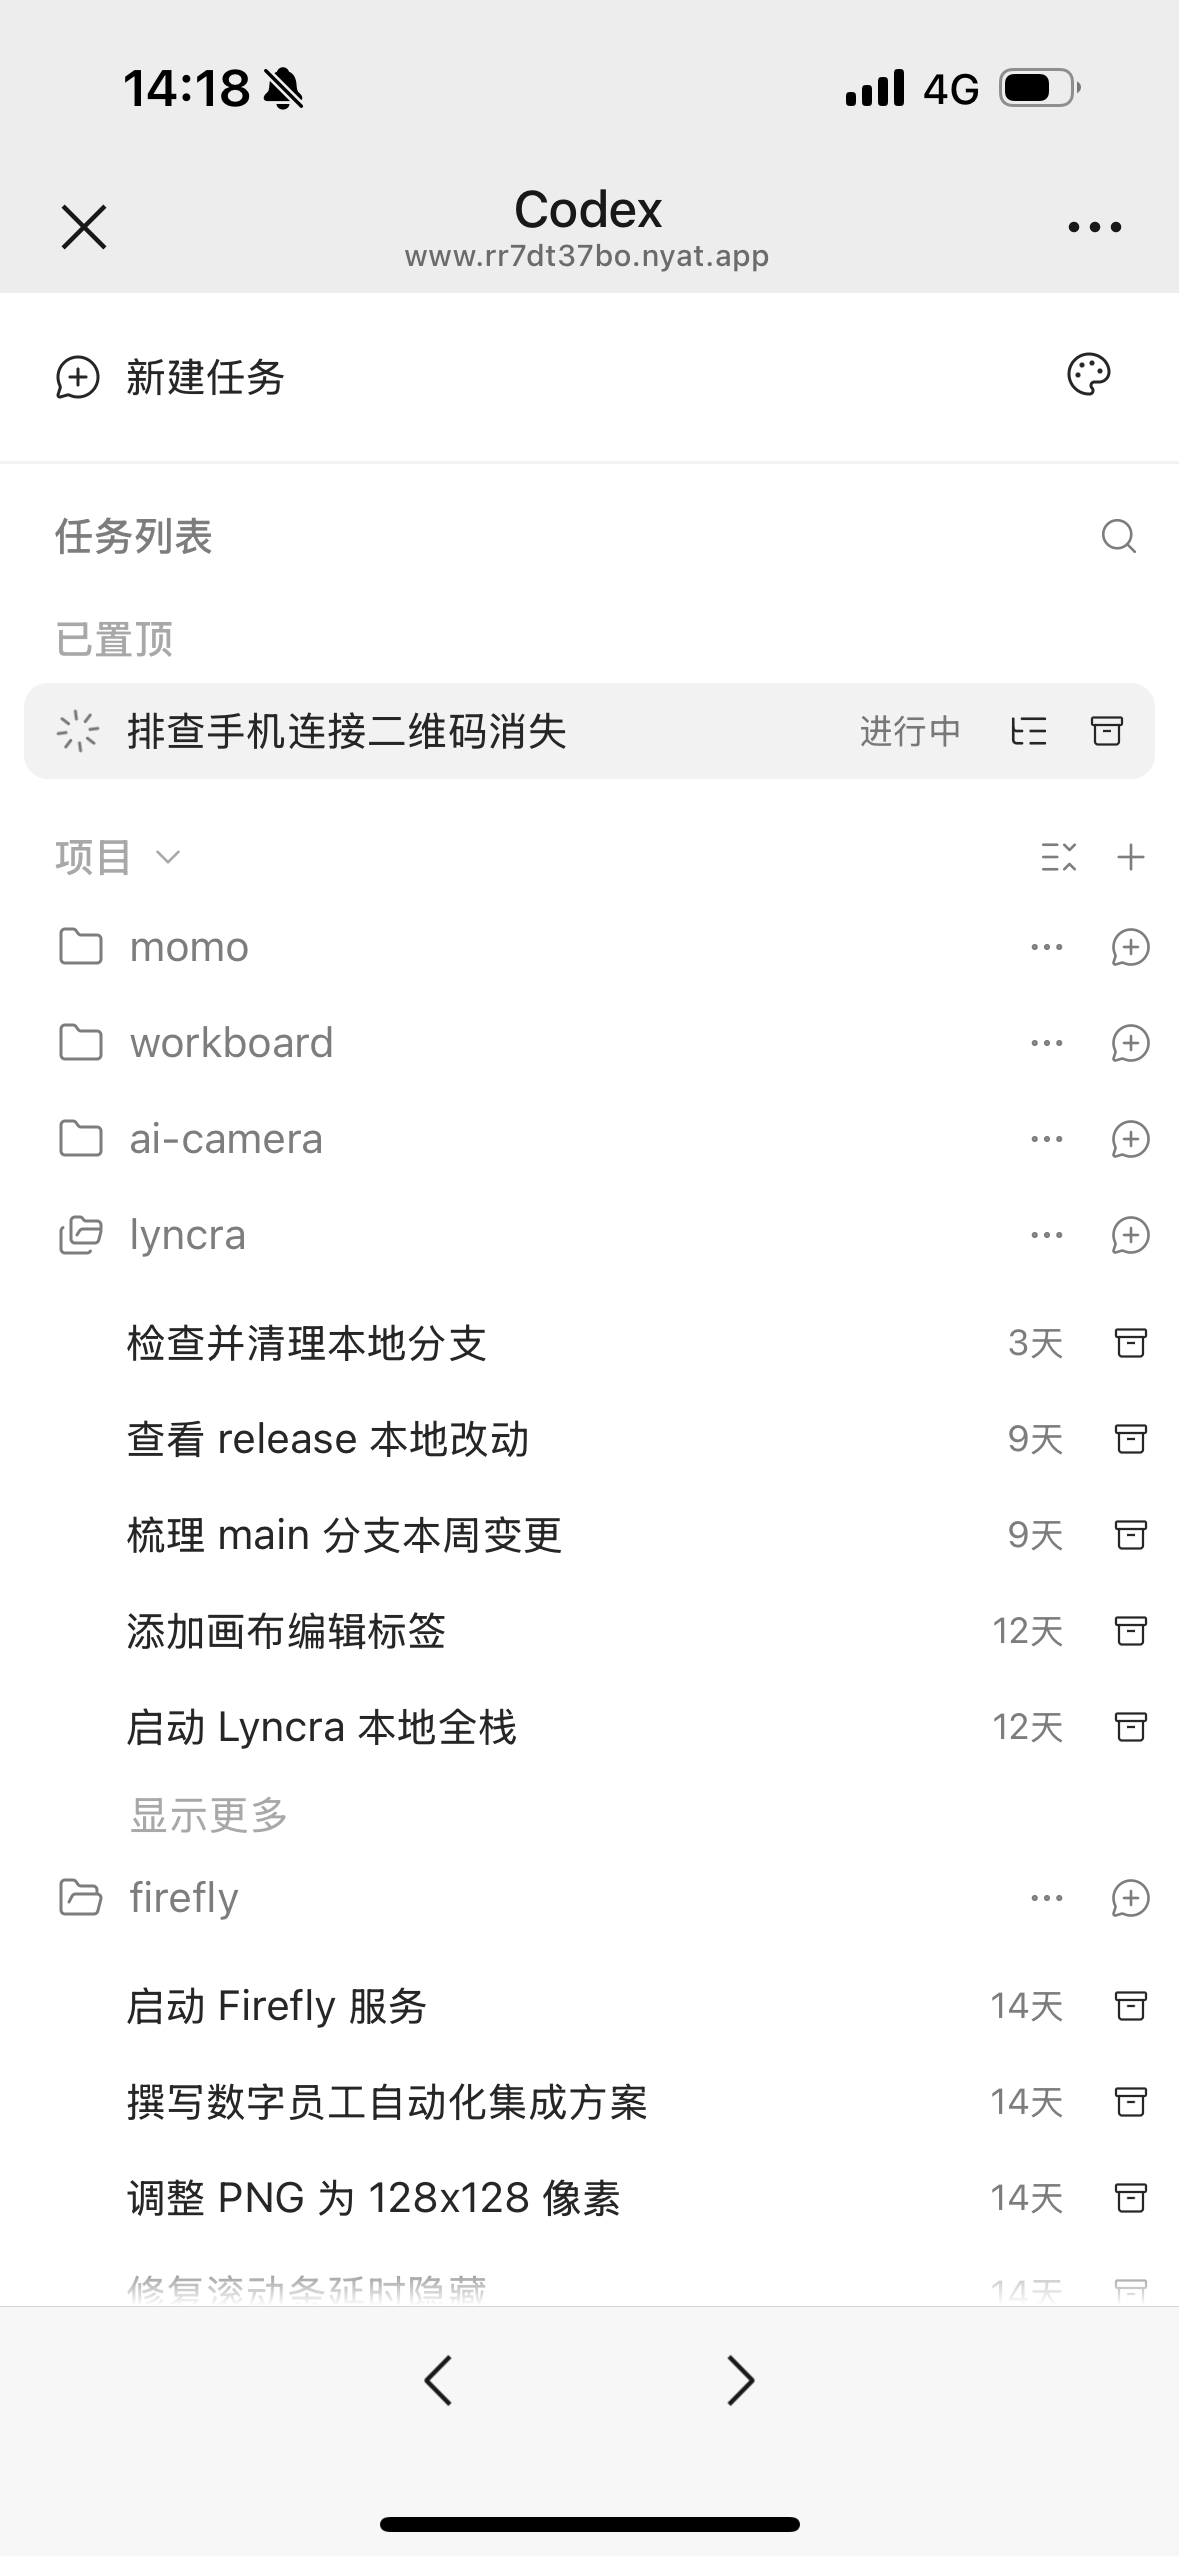
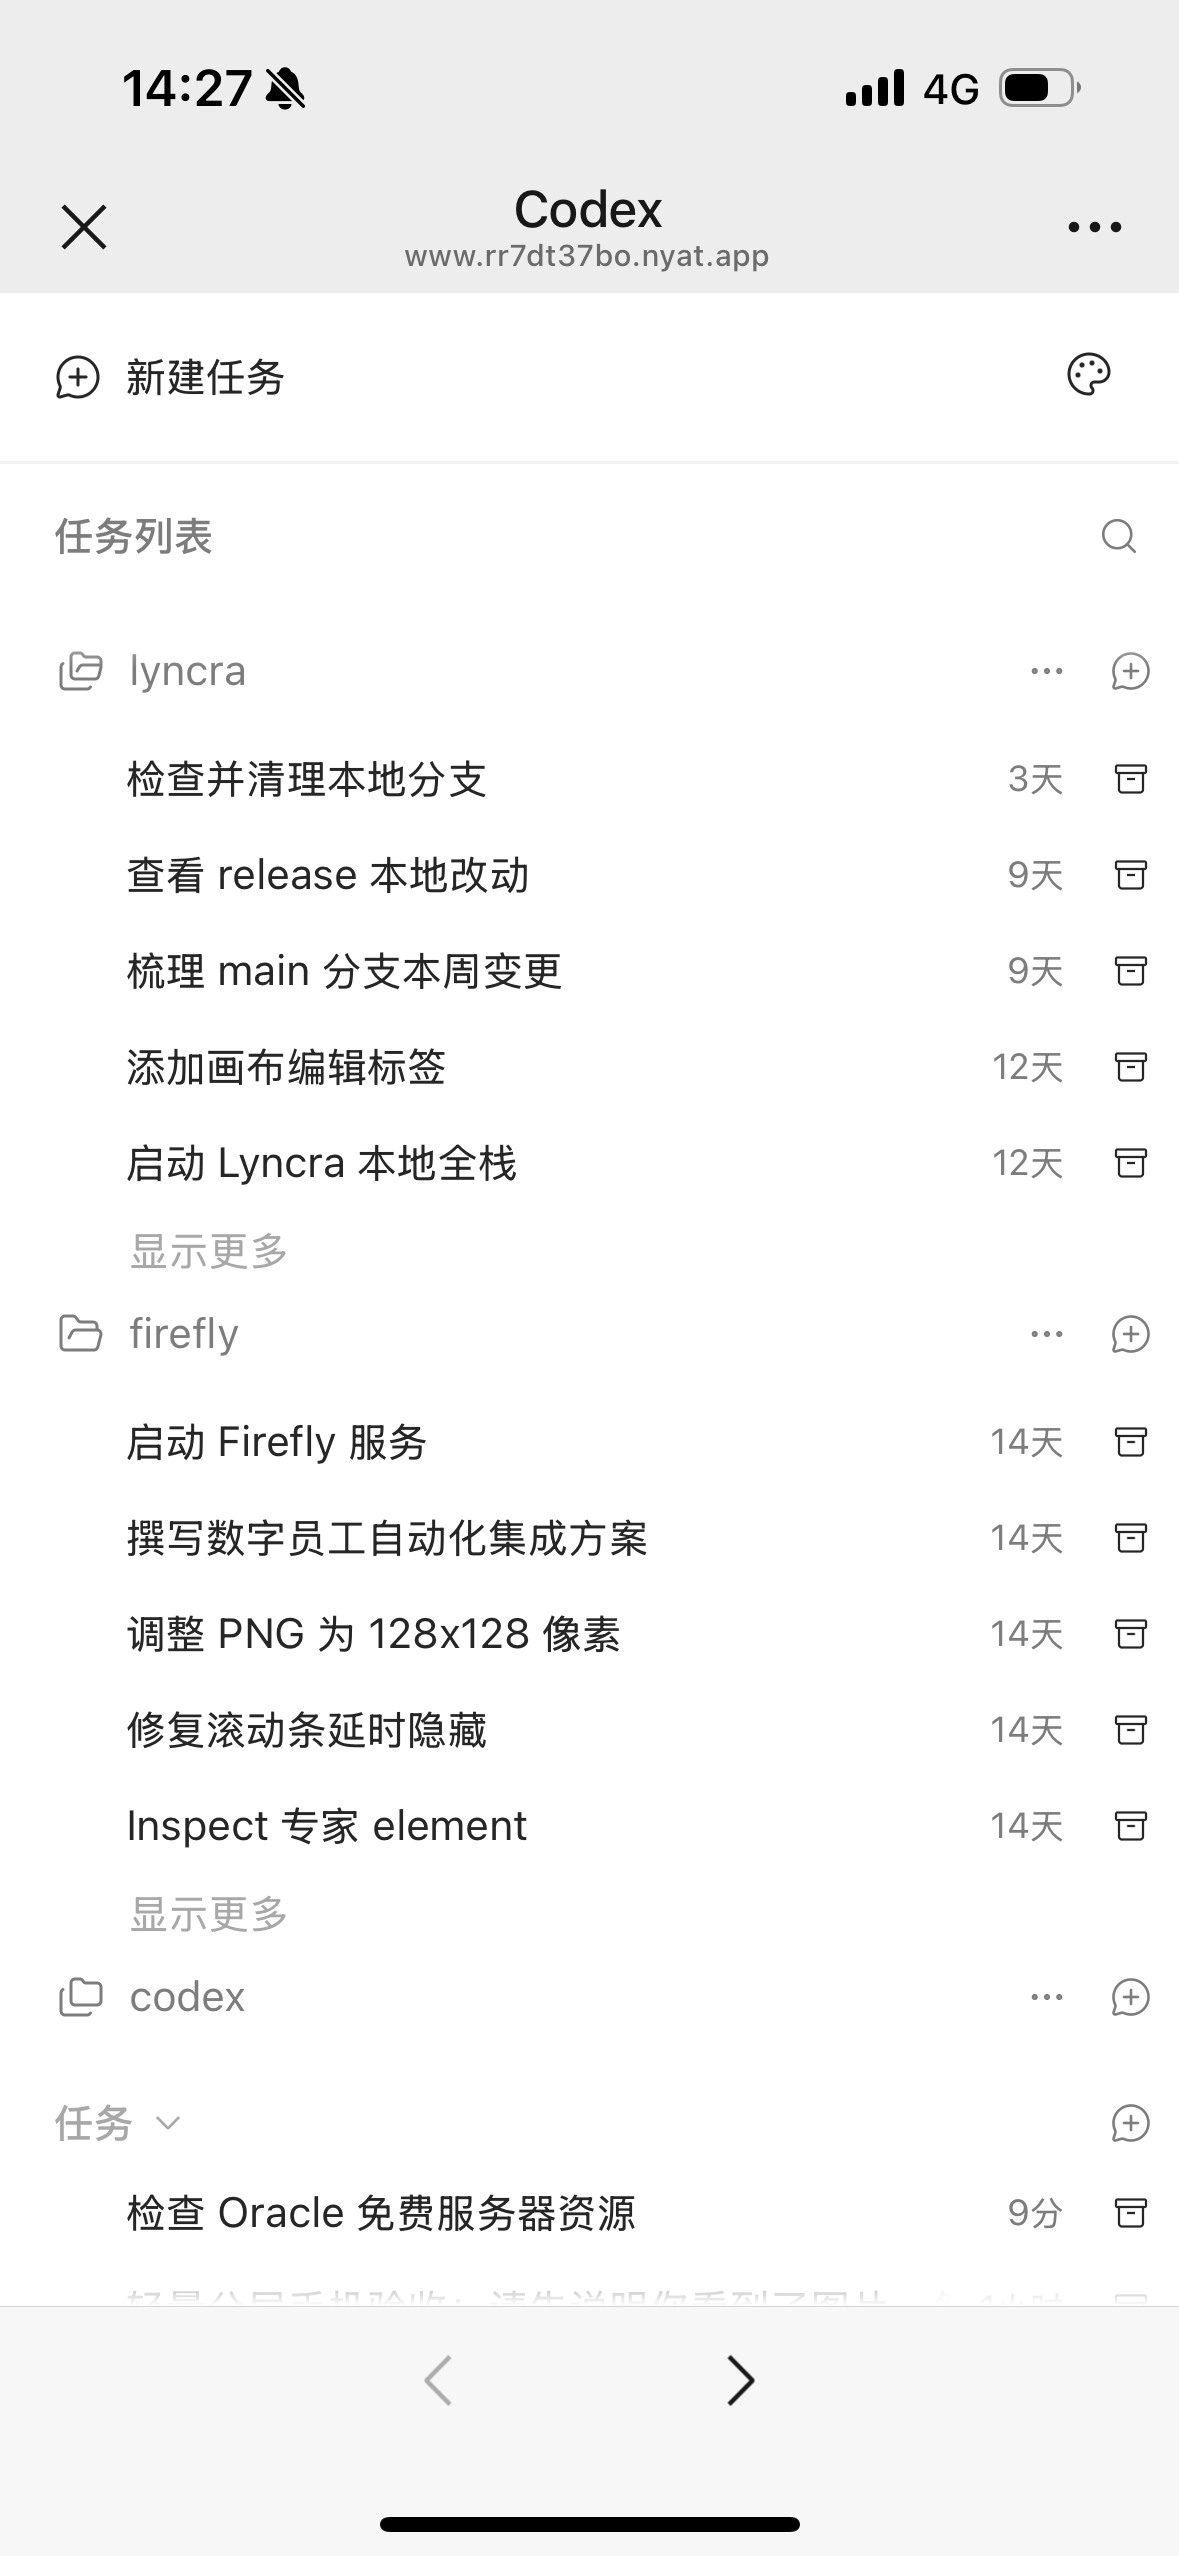
docs: refresh desktop and phone screenshots with redacted QR
Replace the desktop image with the supplied gateway view using an invalid demo QR and pen-stroke redaction. Replace the project-list phone image with the latest supplied capture. Clarify the integrated desktop panel versus the standalone pairing page. The original private QR is not included.

diff --git a/README.md b/README.md
@@ -8,11 +8,11 @@
 
 ## 界面效果
 
-电脑配对图使用演示数据，后两张为实际手机截图，分别展示项目与任务列表、微信收藏入口。电脑图中的二维码内容固定为 `https://example.invalid/codex-mobile-demo`，仅作展示，不含真实公网地址或配对凭据。
+以下为实际使用界面的截图。电脑图中的二维码已替换为无效示例码并划线处理，不含真实配对信息；手机图分别展示项目与任务列表、微信收藏入口。电脑截图展示作者的本机集成面板，开源版提供独立配对页。
 
 | 电脑显示配对二维码 | 手机查看项目与任务 | 微信收藏入口 |
 | --- | --- | --- |
-| ![电脑配对页面，示例二维码](docs/images/pairing.png) | ![手机项目与任务列表，实机截图](docs/images/projects.png) | ![微信收藏中的 Codex 页面入口，实机截图](docs/images/conversation.png) |
+| ![电脑端手机连接面板，二维码已脱敏并划线处理](docs/images/pairing.png) | ![手机项目与任务列表，实机截图](docs/images/projects.png) | ![微信收藏中的 Codex 页面入口，实机截图](docs/images/conversation.png) |
 
 ## 功能介绍
 
